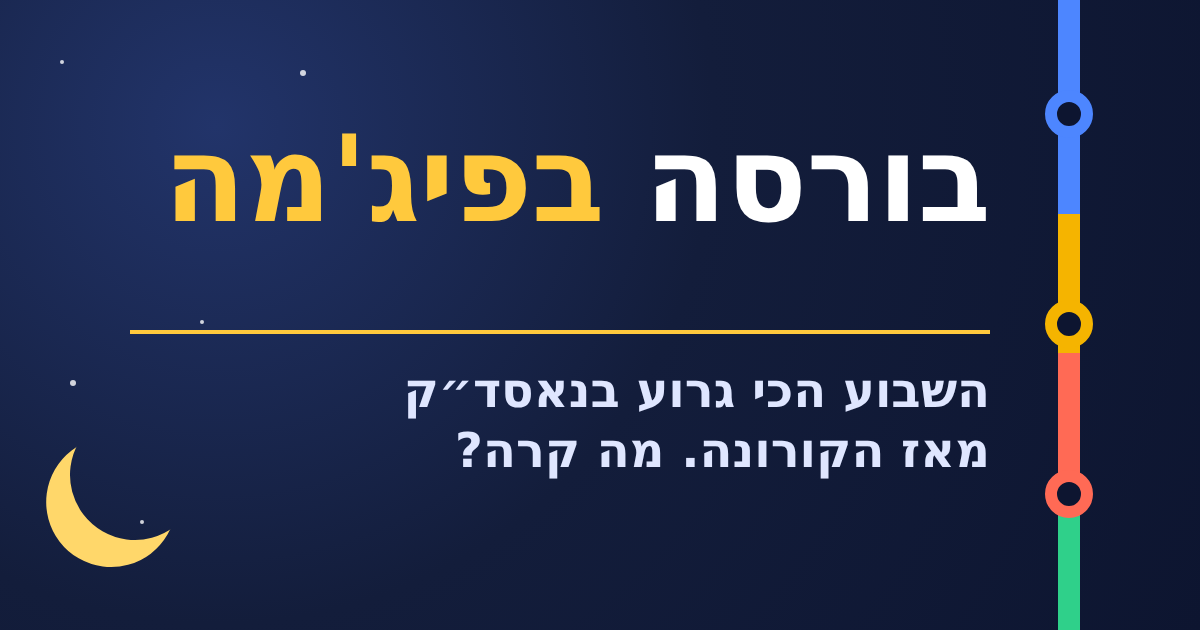
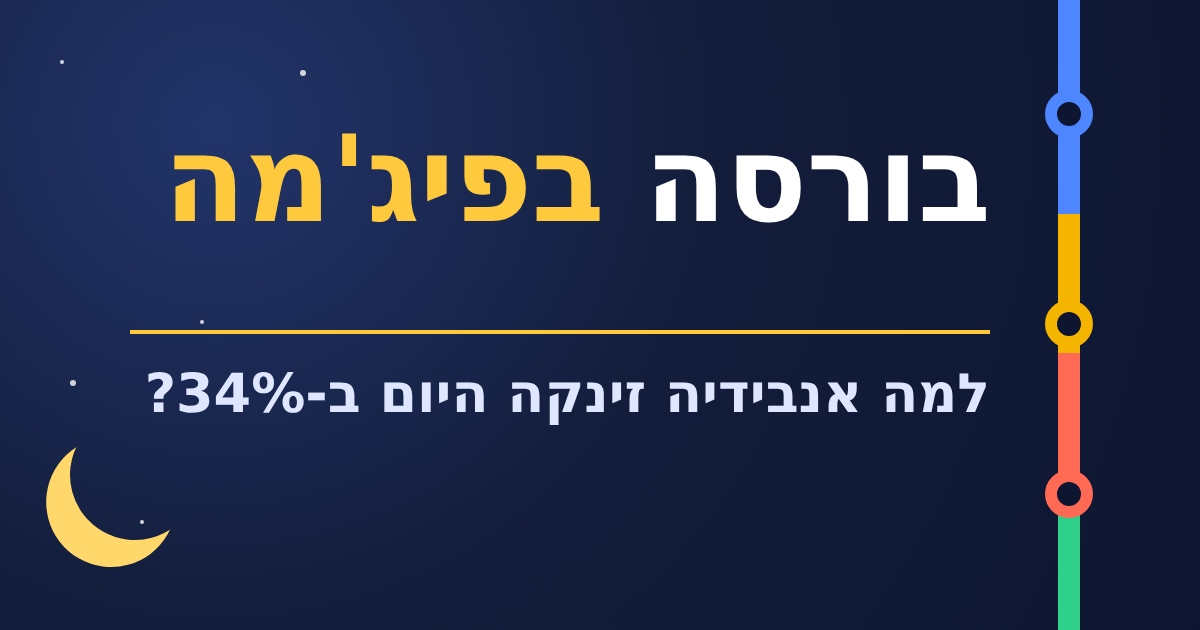
סקירת שווקים 23.11.2026
Claude-Session: https://claude.ai/code/session_019YX1Z7zAkS4yvErqai3DSr

Changed region(s): [[0.1233, 0.573, 0.8325, 0.754]]

diff --git a/index.html b/index.html
@@ -6,14 +6,14 @@
 <meta name="apple-mobile-web-app-title" content="בורסה בפיג'מה">
 <meta name="apple-mobile-web-app-capable" content="yes">
 <title>בורסה בפיג'מה</title>
-<meta name="description" content="חשש מבועת בינה מלאכותית הפיל את מניות השבבים בעולם, וחשש מהעלאת ריבית בארה״ב חיזק את הדולר.">
+<meta name="description" content="אחרי השבוע הגרוע מאז 2020, הבורסות בעולם מזנקות. בנק ישראל השאיר את הריבית, והשקל התחזק.">
 <meta property="og:type" content="article">
 <meta property="og:site_name" content="בורסה בפיג'מה">
 <meta property="og:locale" content="he_IL">
 <meta property="og:url" content="https://skirat-shvakim.github.io/">
-<meta property="og:title" content="השבוע הכי גרוע בנאסד״ק מאז הקורונה. מה קרה?">
-<meta property="og:description" content="חשש מבועת בינה מלאכותית הפיל את מניות השבבים בעולם, וחשש מהעלאת ריבית בארה״ב חיזק את הדולר.">
-<meta property="og:image" content="https://skirat-shvakim.github.io/og.png?v=W2111">
+<meta property="og:title" content="למה אנבידיה זינקה היום ב-34%?">
+<meta property="og:description" content="אחרי השבוע הגרוע מאז 2020, הבורסות בעולם מזנקות. בנק ישראל השאיר את הריבית, והשקל התחזק.">
+<meta property="og:image" content="https://skirat-shvakim.github.io/og.png?v=2311">
 <meta property="og:image:width" content="1200">
 <meta property="og:image:height" content="630">
 <meta name="twitter:card" content="summary_large_image">
@@ -222,7 +222,7 @@ button:focus-visible,input:focus-visible,summary:focus-visible,a:focus-visible{o
       <svg viewBox="0 0 40 40" aria-hidden="true"><rect width="40" height="40" rx="11" fill="#131d3b"/><circle cx="26.5" cy="11.5" r="6" fill="#ffd76a"/><circle cx="29.3" cy="9.6" r="5.3" fill="#131d3b"/><path d="M6 31 L13.5 24 L20 26 L32.5 17.5" fill="none" stroke="#4d86ff" stroke-width="3.4" stroke-linecap="round" stroke-linejoin="round"/><circle cx="13.5" cy="24" r="3" fill="#131d3b" stroke="#f5b400" stroke-width="2.3"/><circle cx="32.5" cy="17.5" r="3" fill="#131d3b" stroke="#ff6a55" stroke-width="2.3"/><circle cx="9" cy="9" r=".8" fill="#fff"/><circle cx="16" cy="6.5" r=".6" fill="#fff"/></svg>
       <span class="bt"><span class="b1">בורסה</span> <span class="b2">בפיג'מה</span></span>
     </a>
-    <span class="date">סיכום שבוע 16–20.11</span>
+    <span class="date">יום שני · 23.11</span>
     <div class="tsz" role="group" aria-label="גודל טקסט"><button type="button" id="tszDown" aria-label="הקטנת טקסט">א−</button><button type="button" id="tszUp" aria-label="הגדלת טקסט">א+</button></div>
     <button type="button" class="menu" id="menuBtn" aria-controls="nav" aria-expanded="false" aria-label="תפריט"><span></span><span></span><span></span></button>
   </header>
@@ -238,13 +238,13 @@ button:focus-visible,input:focus-visible,summary:focus-visible,a:focus-visible{o
   <section class="card hero" id="hero" data-nav="בשורה התחתונה">
     <div class="newbie" id="newbie" hidden><span>חדש בשוק ההון? <a href="start.html">התחל כאן: 5 מושגים ב-2 דקות</a></span><button type="button" id="newbieX" aria-label="סגירה">✕</button></div>
     <div class="meta"><span class="rt">⏱ 30 שניות לעיקר · 3 דקות להכול</span></div>
-    <span class="mood">סיכום השבוע · שבוע אדום</span>
-    <h1>שבוע אדום: נאסד״ק צנח 10%, הדולר זינק ל-3.33</h1>
-    <p class="sub">חשש מבועת בינה מלאכותית הפיל את מניות השבבים בעולם, וחשש מהעלאת ריבית בארה״ב חיזק את הדולר.</p>
+    <span class="mood">יום ירוק · התאוששות</span>
+    <h1>המנכ״ל חזר, אנבידיה זינקה, והריבית בישראל נשארה</h1>
+    <p class="sub">אחרי השבוע הגרוע מאז 2020, הבורסות בעולם מזנקות. בנק ישראל השאיר את הריבית, והשקל התחזק.</p>
     <ul class="bottom">
-      <li>נאסד״ק ירד 10% ו-<button class="term" data-t="sp500">S&amp;P 500</button> ירד 8.6%. לנאסד״ק זה השבוע הגרוע מאז מרץ 2020.</li>
-      <li><button class="term" data-t="ta125">ת״א 125</button> ירד 4.3%. הדולר עלה 3.6%, לשיא של 19 חודשים.</li>
-      <li>אנבידיה איבדה כ-23% למרות דוח מצוין. אנתרופיק עדיין מעל מחיר ה<button class="term" data-t="ipo">הנפקה</button>.</li>
+      <li>אנבידיה החזירה את המנכ״ל ג׳נסן הואנג. המניה זינקה בכ-34%.</li>
+      <li>נאסד״ק עלה כ-7% ו-<button class="term" data-t="sp500">S&amp;P 500</button> כ-5%, אחרי שבוע של נפילות.</li>
+      <li><button class="term" data-t="boirate">ריבית בנק ישראל</button> נשארה 3.25%. <button class="term" data-t="ta125">ת״א 125</button> עלה 0.4%.</li>
     </ul>
     <button type="button" class="listen" id="listen" aria-pressed="false" hidden><svg viewBox="0 0 24 24" aria-hidden="true"><path d="M4 9v6h4l5 4V5L8 9H4z" fill="currentColor"/><path d="M16 8.5a5 5 0 0 1 0 7M18.5 6a8.5 8.5 0 0 1 0 12" fill="none" stroke="currentColor" stroke-width="2" stroke-linecap="round"/></svg><span>הקשב לעיקר</span></button>
     <button type="button" class="share" data-share>שתפו את הסקירה בוואטסאפ</button>
@@ -253,33 +253,33 @@ button:focus-visible,input:focus-visible,summary:focus-visible,a:focus-visible{o
   <section class="card me" id="me" data-nav="מה זה אומר עליי">
     <h2>מה זה אומר עליי</h2>
     <ul>
-      <li><b>חופשה בחו״ל:</b> לפני שבוע הדולר עלה 3.21 שקלים, עכשיו 3.33. 1,000 דולר עולים כ-120 שקל יותר.</li>
-      <li><b>פנסיה והשתלמות:</b> במסלול מנייתי החיסכון כנראה ירד השבוע. הדולר החזק ריכך מעט את הירידה בחלק שבחו״ל.</li>
-      <li><b>משכנתא:</b> ביום שני בנק ישראל מחליט על הריבית. רוב הכלכלנים מצפים שתישאר 3.25%.</li>
+      <li><b>חופשה בחו״ל:</b> הדולר ירד לכ-3.30 שקלים. בפועל: 1,000 דולר עולים כ-50 שקל פחות משישי בערב.</li>
+      <li><b>משכנתא:</b> ה<button class="term" data-t="prime">פריים</button> נשאר 4.75%. ההחזר במסלול פריים לא משתנה. ההחלטה הבאה: 4 בינואר.</li>
+      <li><b>פנסיה והשתלמות:</b> המניות בחו״ל מתאוששות היום. אבל יום אחד לא מוחק שבוע של ירידות.</li>
     </ul>
   </section>
 
   <section class="card" id="numbers" data-nav="המספרים">
     <h2>המספרים</h2>
     <div class="tiles">
-      <div class="t"><span><button class="term" data-t="ta125">ת״א 125</button> · נעילה</span><b>3,753</b><span class="chg d">▼ 4.3%</span><span class="ctx hot">הבנייה צנחה כמעט 10%</span></div>
-      <div class="t"><span><button class="term" data-t="sp500">S&amp;P 500</button> · נעילה</span><b>6,910</b><span class="chg d">▼ 8.6%</span><span class="ctx hot">נכנס ל<button class="term" data-t="corr">תיקון</button></span></div>
-      <div class="t"><span>נאסד״ק · נעילה</span><b>22,618</b><span class="chg d">▼ 10.0%</span><span class="ctx hot">הגרוע מאז מרץ 2020</span></div>
-      <div class="t"><span>דולר / שקל · <button class="term" data-t="rep">יציג</button></span><b>3.330</b><span class="chg u">▲ 3.6%</span><span class="ctx hot">שיא של 19 חודשים</span></div>
-      <div class="t"><span>נפט ברנט</span><b>$92.6</b><span class="chg d">▼ 3.4%</span><span class="ctx">שבוע שלישי של ירידות</span></div>
-      <div class="t"><span>זהב</span><b>$3,525</b><span class="chg d">▼ כ-9%</span><span class="ctx hot">השבוע הגרוע מזה 8 חודשים</span></div>
+      <div class="t"><span><button class="term" data-t="ta125">ת״א 125</button></span><b>3,769</b><span class="chg u">▲ 0.4%</span><span class="ctx">התהפך לעלייה אחרי הצהריים</span><span class="asof">נעילה</span></div>
+      <div class="t"><span><button class="term" data-t="sp500">S&amp;P 500</button></span><b>≈7,264</b><span class="chg u">▲ 5.1%</span><span class="ctx hot">זינוק נדיר ביום אחד</span><span class="asof">נכון ל-18:00</span></div>
+      <div class="t"><span>נאסד״ק</span><b>≈24,198</b><span class="chg u">▲ 7.0%</span><span class="ctx hot">השבבים מובילים</span><span class="asof">נכון ל-18:00</span></div>
+      <div class="t"><span>דולר / שקל</span><b>≈3.30</b><span class="chg d">▼ 1.6%</span><span class="ctx">השקל מתאושש</span><span class="asof">נכון ל-17:55</span></div>
+      <div class="t"><span>נפט ברנט</span><b>$86.4</b><span class="chg d">▼ 4.0%</span><span class="ctx">שפל של 3 חודשים</span><span class="asof">נכון ל-17:55</span></div>
+      <div class="t"><span>זהב</span><b>$3,668</b><span class="chg u">▲ 4.3%</span><span class="ctx">חוזר אחרי שבוע קשה</span><span class="asof">נכון ל-17:55</span></div>
     </div>
     <details class="adv">
       <summary>עוד נתונים, למתקדמים</summary>
       <div class="tiles">
-        <div class="t"><span>יורו / שקל</span><b>&gt;3.65</b><span class="chg u">▲ כ-3.1%</span><span class="ctx">השקל נחלש גם מול היורו</span></div>
-        <div class="t"><span><button class="term" data-t="yield">תשואת אג״ח</button> ארה״ב, 10 שנים</span><b>4.92%</b><span class="chg d">▼ 0.23</span><span class="ctx">כסף ברח לאג״ח בטוחות</span></div>
-        <div class="t"><span>תשואת אג״ח ישראל, 10 שנים</span><b>≈4.22%</b><span class="chg u">▲ 0.04</span><span class="ctx">כמעט ללא שינוי (לא אומת)</span></div>
-        <div class="t"><span><button class="term" data-t="vix">מדד הפחד VIX</button></span><b>35.9</b><span class="chg u">▲ 86%</span><span class="ctx hot">הגבוה מאז מרץ</span></div>
-        <div class="t"><span>ביטקוין</span><b>≈$58,900</b><span class="chg d">▼ כ-13%</span><span class="ctx">מתחת ל-60 אלף (לא אומת)</span></div>
+        <div class="t"><span>יורו / שקל</span><b>≈3.60</b><span class="chg d">▼ 2.2%</span><span class="ctx">השקל התחזק גם מול היורו</span><span class="asof">נכון ל-17:55</span></div>
+        <div class="t"><span><button class="term" data-t="yield">תשואת אג״ח</button> ארה״ב, 10 שנים</span><b>4.95%</b><span class="chg u">▲ 0.04</span><span class="ctx">צפי להעלאת ריבית</span><span class="asof">נכון ל-18:00</span></div>
+        <div class="t"><span>תשואת אג״ח ישראל, 10 שנים</span><b>≈4.22%</b><span class="chg u">▲ 0.0</span><span class="ctx">כמעט ללא שינוי (לא אומת)</span><span class="asof">פתיחת השבוע</span></div>
+        <div class="t"><span><button class="term" data-t="vix">מדד הפחד VIX</button></span><b>27.3</b><span class="chg d">▼ 24%</span><span class="ctx">הפחד יורד, עדיין גבוה</span><span class="asof">נכון ל-18:00</span></div>
+        <div class="t"><span>ביטקוין</span><b>≈$62,800</b><span class="chg u">▲ 3.3%</span><span class="ctx">שוב מעל 60 אלף</span><span class="asof">נכון ל-18:00</span></div>
       </div>
     </details>
-    <p class="note">שינוי שבועי: נעילת שישי מול נעילת שישי הקודם.</p>
+    <p class="note">ת״א 125: נעילה. וול סטריט עדיין פתוחה: נתונים מ-18:00 שעון ישראל. הנפט והזהב: חוזים עתידיים. השינוי: מול נעילת שישי.</p>
   </section>
 
   <section class="card pick" id="stocks" data-nav="המניות שלי">
@@ -295,16 +295,16 @@ button:focus-visible,input:focus-visible,summary:focus-visible,a:focus-visible{o
   </section>
 
   <section class="card" id="story" data-nav="הסיפור של היום" data-fold>
-    <h2>הסיפור של השבוע</h2>
-    <p class="teaser">חשש מבועת בינה מלאכותית הפיל את השווקים בעולם, ותל אביב והשקל נגררו אחריהם.</p>
+    <h2>הסיפור של היום</h2>
+    <p class="teaser">המנכ״ל של אנבידיה חזר לתפקיד, והשווקים שנפלו בשבוע שעבר זינקו היום.</p>
     <div class="fold-body">
-      <h3 class="subh">5 הסיפורים של השבוע</h3>
+      <p>ג׳נסן הואנג, מייסד אנבידיה, התפטר לפני כשבועיים. ברקע היו דיווחים על קשר לבכירה שנחשדה כסוכנת סינית. היום ה<button class="term" data-t="board">דירקטוריון</button> החזיר אותו לתפקיד. הדירקטוריון אמר שקיבל מידע מבכירים בממשל האמריקאי. החקירה הפנימית תימשך. המניה זינקה בכ-34%, אבל עדיין כ-30% מתחת לשיא של אוקטובר.</p>
+      <p>הזינוק סחף את כל מניות השבבים. AMD עלתה כ-8%, וטאואר בתל אביב עלתה 8.6%. מדד הפחד ירד בכרבע. אבל הבעיות לא נעלמו. ענקיות הטכנולוגיה עדיין מוציאות הון על בינה מלאכותית. והפד צפוי להעלות ריבית בדצמבר.</p>
+      <h3 class="subh">הזווית הגיאופוליטית</h3>
       <div class="geo-in">
-        <div class="item"><span class="tag">שבבים</span><h3>אנבידיה: הכנסות כפולות, מניה בנפילה</h3><p>משקיעים חוששים שההשקעה העצומה ב<button class="term" data-t="ai">בינה מלאכותית</button> לא תחזיר את עצמה. אנבידיה ירדה כ-23% למרות הכנסות כפולות. בשישי צנחה 14% אחרי דיווח שהרגולטור בארה״ב בודק את החשבונות שלה. בטאיוואן: השבוע הגרוע מאז 1991.</p></div>
-        <div class="item"><span class="tag">חמישי</span><h3>אנתרופיק: ההנפקה הגדולה בהיסטוריה</h3><p>המניה הונפקה ב-83 דולר, והחברה גייסה כ-81 מיליארד דולר. ביום הראשון נסגרה ב-97 דולר, ובשישי ירדה לכ-89. עדיין מעל מחיר ה<button class="term" data-t="ipo">הנפקה</button>, אבל לא הצליחה לעצור את הירידות.</p></div>
-        <div class="item"><span class="tag">ריבית</span><h3>הפד בדרך להעלאה, הדולר מתחזק</h3><p>בפרוטוקול של הפד כמעט כל החברים צפו <button class="term" data-t="hike">העלאת ריבית</button> בדצמבר. השוק מעריך סיכוי של כ-90%. הדולר התחזק בעולם, ומוסדיים בארץ קנו דולרים ל<button class="term" data-t="hedge">גידור</button>.</p></div>
-        <div class="item"><span class="tag">תל אביב</span><h3>ת״א 125 ירד 4.3%</h3><p>הבנייה צנחה 9.7% והבנקים 6%. טאואר, יצרנית השבבים, איבדה 17%. דיסקונט דיווחה על ירידה של 20% ברווח ועל פיטורי כ-600 עובדים. הצריכה ירדה רק 1%.</p></div>
-        <div class="item"><span class="tag">נפט</span><h3>הורמוז: תקיפות נמשכות, הנפט יורד</h3><p>איראן ממשיכה לתקוף מכליות, אבל הנפט מהמפרץ חזר לזרום כמעט כרגיל. ברנט ירד 3.4%, שבוע שלישי ברצף. טראמפ אמר שארה״ב שולטת בהורמוז ושהוא רוצה ״עסקה אמיתית״ עם איראן.</p></div>
+        <div class="item"><span class="tag">ישראל</span><h3>בנק ישראל: הריבית בלי שינוי</h3><p>הריבית נשארה 3.25%, אף שהאינפלציה רק 1.1%. הסיבה: השקל נחלש כ-7.6% מול הדולר מאז ההחלטה הקודמת. הבנק הזכיר גם אי-ודאות גבוהה, בארץ ובעולם.</p></div>
+        <div class="item"><span class="tag">איראן</span><h3>מתיחות במפרץ, אבל הנפט יורד</h3><p>איראן תקפה את בחריין בסוף השבוע. טראמפ נותן עוד זמן למגעים, ומאיים בפעולה אחרי השנה החדשה. ובכל זאת, הנפט ממשיך לזרום. ברנט ירד כ-4%.</p></div>
+        <div class="item"><span class="tag">ארה״ב–סין</span><h3>וושינגטון מאחורי אנבידיה</h3><p>החשד נגע לקשר סיני, ולכן הממשל היה מעורב. אנבידיה הקימה ועדה לביטחון לאומי ולפיקוח על יצוא. טראמפ בירך על ההחלטה ברשת החברתית שלו.</p></div>
       </div>
     </div>
   </section>
@@ -312,19 +312,19 @@ button:focus-visible,input:focus-visible,summary:focus-visible,a:focus-visible{o
 
   <section class="card think" id="think" data-nav="נקודה למחשבה" data-fold>
     <h2>נקודה למחשבה</h2>
-    <div class="item teaser"><h3>למה השקל נחלש כשהעולם יורד?</h3><p>כשמניות בחו״ל יורדות, מוסדיים כאן קונים דולרים כדי לאזן את הגידור. השבוע זה פגש ריבית אמריקאית שצפויה לעלות.</p></div>
+    <div class="item teaser"><h3>יום ירוק אחרי שבוע אדום</h3><p>אחרי ירידה חדה מגיע לפעמים זינוק חד. לזה קוראים <button class="term" data-t="bounce">ריבאונד</button>. השאלה היא אם הוא יחזיק כמה ימים.</p></div>
     <div class="fold-body">
-      <div class="item"><h3>שבוע קצר, נתון אחד חשוב</h3><p>ביום רביעי יתפרסם <button class="term" data-t="pce">מדד PCE</button>, נתון האינפלציה האחרון לפני הפד. הוא עשוי להשפיע על גודל העלאת הריבית בדצמבר.</p></div>
-      <div class="item"><h3>מה אם כולם טועים?</h3><p>השוק מפחד מבועה. אבל ההכנסות של אנבידיה הוכפלו, והתחזית לרבעון הבא גבוהה עוד יותר. אם הרווחים יימשכו, הפאניקה עלולה להיראות בדיעבד מוגזמת.</p></div>
+      <div class="item"><h3>שבוע קצר, נתון אחד חשוב</h3><p>ביום רביעי יתפרסם <button class="term" data-t="pce">מדד PCE</button>, נתון אינפלציה חשוב בארה״ב. הוא ישפיע על החלטת הריבית בדצמבר.</p></div>
+      <div class="item"><h3>מה אם כולם טועים?</h3><p>אולי הזינוק הוא רק הקלה זמנית. הבעיות נשארו: השקעות ענק, ריבית שצפויה לעלות ומתח גיאופוליטי. ייתכן שהירידות יחזרו.</p></div>
     </div>
   </section>
 
   <div class="learn">
     <section class="card word" id="word" data-nav="מונח היום">
-      <h2>מונח השבוע</h2>
-      <p class="w">תיקון (Correction)</p>
-      <p>ירידה של 10% או יותר מהשיא האחרון של מדד או מניה. ירידה של 20% ומעלה כבר נקראת ״שוק דובי״.</p>
-      <p class="ex">דוגמה מהשבוע: S&amp;P 500 ירד כ-11.6% מהשיא שלו ב-6 באוקטובר, ונכנס רשמית לתיקון.</p>
+      <h2>מונח היום</h2>
+      <p class="w">ריבית הפריים (Prime)</p>
+      <p>הריבית שהבנקים בישראל גובים על הלוואות. היא תמיד גבוהה ב-1.5 נקודות אחוז מריבית בנק ישראל.</p>
+      <p class="ex">דוגמה מהיום: ריבית בנק ישראל נשארה 3.25%, ולכן הפריים נשאר 4.75%. משכנתא במסלול פריים לא משתנה.</p>
     </section>
   </div>
 
@@ -335,43 +335,39 @@ button:focus-visible,input:focus-visible,summary:focus-visible,a:focus-visible{o
   </section>
 
   <section class="card" id="tomorrow" data-nav="מה לעקוב מחר" data-fold>
-    <h2>מה צפוי בשבוע הבא</h2>
+    <h2>מה לעקוב מחר</h2>
     <ul class="cal teaser">
-      <li><time>שני</time><span>16:00: בנק ישראל מחליט על הריבית. הצפי: נשארת 3.25%.</span></li>
+      <li><time>שלישי</time><span>דוחות דל, וורקדיי ואוטודסק: מבחן לביקוש לבינה מלאכותית.</span></li>
     </ul>
     <div class="fold-body"><ul class="cal">
-      <li><time>שני</time><span>תל אביב צפויה לפתוח בירידות, אחרי נפילת וול סטריט בשישי.</span></li>
-      <li><time>שלישי</time><span>דוחות דל, וורקדיי ואוטודסק: מבחן לביקוש לבינה מלאכותית.</span></li>
+      <li><time>שלישי</time><span>האם הזינוק בוול סטריט יחזיק יום שני?</span></li>
       <li><time>רביעי</time><span>מדד PCE: נתון האינפלציה האחרון בארה״ב לפני הפד.</span></li>
       <li><time>רביעי</time><span>דוחות הפניקס, מנורה, עזריאלי ושטראוס בתל אביב.</span></li>
       <li><time>חמישי</time><span>חג ההודיה: וול סטריט סגורה. בשישי מסחר מקוצר.</span></li>
-      <li><time>29.11</time><span>אופ״ק+ מחליטה על תפוקת הנפט ל-2027.</span></li>
-      <li><time>6.12</time><span>המועד האחרון של אייזנקוט להרכבת ממשלה.</span></li>
       <li><time>9.12</time><span>החלטת הפד: השוק מעריך כ-90% סיכוי להעלאה.</span></li>
+      <li><time>4.1</time><span>ההחלטה הבאה של בנק ישראל על הריבית.</span></li>
     </ul></div>
   </section>
 
   <section class="card src" id="sources" data-nav="מקורות" data-fold>
     <h2>מקורות</h2>
-    <p class="teaser">הסקירה מבוססת על 16 כתבות ומקורות נתונים בארץ ובעולם.</p>
+    <p class="teaser">הסקירה מבוססת על 14 כתבות ממקורות בארץ ובעולם.</p>
     <div class="fold-body">
     <p>
-      <a href="https://www.bizportal.co.il/capitalmarket/news/article/20049385">ביזפורטל – שבוע אדום בבורסה</a> ·
-      <a href="https://www.bizportal.co.il/forex/news/article/20049389">ביזפורטל – הדולר ב-3.33</a> ·
-      <a href="https://www.bizportal.co.il/capitalmarket/news/article/20049463">ביזפורטל – לקראת החלטת הריבית</a> ·
-      <a href="https://www.bizportal.co.il/capitalmarket/news/article/20049464">ביזפורטל – מה צפוי בשבוע הבא</a> ·
-      <a href="https://www.globes.co.il/news/article.aspx?did=1001563907">גלובס – דוחות הבנקים</a> ·
-      <a href="https://www.calcalist.co.il/local_news/article/hkhmdwp0ze">כלכליסט – מדד המחירים</a> ·
-      <a href="https://theglassdesk.substack.com/p/weekly-market-review-nov-20-2026">Glass Desk – סיכום שבועי בוול סטריט</a> ·
-      <a href="https://www.fool.com/coverage/stock-market-today/2026/11/20/stock-market-today-nov-20-nvidia-s-usd2-5-trillion-rout-deepens-as-sec-accounting-probe-adds-to-wall-street-s-ai-sell-off/">Motley Fool – אנבידיה וחקירת ה-SEC</a> ·
-      <a href="https://www.lanacion.com.ar/usa/how-major-us-stock-indexes-fared-friday-11132026-nid13112026/">AP – נעילת המדדים ב-13.11</a> ·
-      <a href="https://fourweekmba.com/ai-anthropic-closes-day-one-at-97-17-up-17-from-83-ipo/">FourWeekMBA – אנתרופיק ביום הראשון</a> ·
-      <a href="https://www.adn.com/business-economy/2026/11/18/fed-minutes-higher-interest-rates-needed-in-december-as-inflation-worries-mount/">AP – פרוטוקול הפד</a> ·
-      <a href="https://www.rte.ie/news/business/2026/1120/1599964-world-oil-prices/">RTÉ (רויטרס) – מחיר הנפט</a> ·
-      <a href="https://www.thenationalnews.com/business/money/2026/11/20/why-is-gold-price-going-down/">The National – למה הזהב יורד</a> ·
-      <a href="https://www.tradingandinvestmentnews.co.uk/ai-selloff-taiwan-short-curbs/">Trading &amp; Investment News – טאיוואן</a> ·
-      <a href="https://www.latintimes.com/trump-asia-tour-trade-deals-global-disputes-601648">Latin Times – מסיבת העיתונאים של טראמפ</a> ·
-      <a href="https://stockanalysis.com/stocks/nvda/history/">StockAnalysis – מחירי המניות</a>
+      <a href="https://il.investing.com/news/stock-market-news/article-1039993">Investing – נעילת תל אביב</a> ·
+      <a href="https://www.maariv.co.il/economy/israel/article-1391511">מעריב – הבורסה עברה לעליות</a> ·
+      <a href="https://www.maariv.co.il/economy/israel/article-1391497">מעריב – הריבית ללא שינוי</a> ·
+      <a href="https://www.calcalist.co.il/local_news/article/rj112p311kmg">כלכליסט – החלטת הריבית</a> ·
+      <a href="https://www.israelhayom.co.il/business/article/21914831">ישראל היום – למה לא הורידו</a> ·
+      <a href="https://kore.co.il/viewArticle/226034">כל רגע – נימוקי בנק ישראל</a> ·
+      <a href="https://bizportal.co.il/wallstreet/news/article/20049720">ביזפורטל – אנבידיה וחזרת הואנג</a> ·
+      <a href="https://globes.co.il/news/article.aspx?did=1001564509">גלובס – המסחר בתל אביב</a> ·
+      <a href="https://calcalist.co.il/market/article/ke6nfc7sk">כלכליסט – לקראת הפתיחה</a> ·
+      <a href="https://finance.yahoo.com/markets/live/stock-market-today-monday-november-23-dow-sp-500-nasdaq-091118583.html">Yahoo Finance – וול סטריט היום</a> ·
+      <a href="https://247wallst.com/investing/2026/11/23/stock-market-today-dow-sp-500-and-nasdaq-surge-as-nvidia-leads-a-major-ai-rebound/">24/7 Wall St – הזינוק בשבבים</a> ·
+      <a href="https://finance.yahoo.com/markets/stocks/articles/stock-market-news-nov-23-073600160.html">Zacks – למה וול סטריט נפלה בשישי</a> ·
+      <a href="https://www.zerohedge.com/markets/futures-soar-trump-throws-nvidia-lifeline-after-worst-week-liberation-day">ZeroHedge – טראמפ ואנבידיה</a> ·
+      <a href="https://tradingeconomics.com/commodity/brent-crude-oil">Trading Economics – נפט ברנט ואיראן</a>
     </p>
     </div>
   </section>
@@ -379,7 +375,7 @@ button:focus-visible,input:focus-visible,summary:focus-visible,a:focus-visible{o
 </main>
 
   <div class="sharefoot"><p>אהבת? שלח לחבר שמתחיל להתעניין בשוק</p><button type="button" class="share" data-share>שיתוף</button></div>
-  <p class="foot"><a href="accessibility.html">הצהרת נגישות</a> · <a href="glossary.html">מילון</a> · <a href="start.html">התחל כאן</a><br>הסקירה היא סיכום מידע וניתוח בלבד ואינה מהווה ייעוץ השקעות.<br>עודכן: 21.11.2026 23:35</p>
+  <p class="foot"><a href="accessibility.html">הצהרת נגישות</a> · <a href="glossary.html">מילון</a> · <a href="start.html">התחל כאן</a><br>הסקירה היא סיכום מידע וניתוח בלבד ואינה מהווה ייעוץ השקעות.<br>עודכן: 23.11.2026 19:15</p>
 </div>
 
 <div class="sheet" id="sheet" role="dialog" aria-modal="false" aria-labelledby="sh-t">
@@ -391,49 +387,48 @@ button:focus-visible,input:focus-visible,summary:focus-visible,a:focus-visible{o
 <script>
 {
   const STOCKS=[
-    {tk:"NVDA",name:"אנבידיה",price:"$125.53",chg:-22.9,week:[156.14,155.46,150.96,145.98,125.53],note:"דוח מצוין לא עזר. בשישי −14%: הרגולטור בארה״ב בודק את החשבונות."},
-    {tk:"AAPL",name:"אפל",price:"$342.56",chg:-3.8,week:[352.78,351.91,352.45,349.21,342.56],note:"ירדה הרבה פחות מרוב ענקיות הטכנולוגיה."},
-    {tk:"MSFT",name:"מיקרוסופט",price:"$484.52",chg:-7.5,week:[517.99,506.24,508.29,498.30,484.52],note:"נפגעה מהחשש מהשקעות הענק בבינה מלאכותית."},
-    {tk:"TSLA",name:"טסלה",price:"$345.82",chg:-11.4,week:[379.74,380.11,383.72,374.41,345.82],note:"בשישי לבד ירדה 7.6%."},
-    {tk:"AMZN",name:"אמזון",price:"$246.82",chg:-7.4,week:[257.75,257.89,267.74,257.37,246.82],note:"חשש מההוצאות העצומות על מרכזי נתונים."},
-    {tk:"GOOGL",name:"גוגל (אלפבית)",price:"$265.29",chg:-10.3,week:[283.72,280.20,282.44,272.66,265.29],note:"ירידה דו-ספרתית, עם כל מניות הבינה המלאכותית."},
-    {tk:"META",name:"מטא",price:"$560.84",chg:-12.6,week:[626.41,618.87,616.38,596.22,560.84],note:"ירדה כל יום השבוע; בשישי כמעט 6%."},
-    {tk:"AVGO",name:"ברודקום",price:"$304.41",chg:-12.3,week:[333.40,341.60,354.05,346.65,304.41],note:"בשישי צנחה 12% עם מניות השבבים."},
-    {tk:"AMD",name:"AMD",price:"$424.39",chg:-20.5,week:[504.28,503.41,530.14,489.19,424.39],note:"שבוע קשה לשבבים: בשישי לבד ירדה 13%."},
-    {tk:"NFLX",name:"נטפליקס",price:"$56.73",chg:-8.7,week:[60.75,59.68,59.82,58.46,56.73],note:"ממשיכה לדשדש מאז הדוח המאכזב באוקטובר."},
-    {tk:"PLTR",name:"פלנטיר",price:"$144.15",chg:-14.2,week:[160.6,156.7,153.68,144.15],note:"המשך הנפילה במניות הבינה המלאכותית (נתונים חלקיים)."},
-    {tk:"JPM",name:"ג׳יי.פי מורגן",price:"$310.53",chg:-10.3,week:[338.21,329.96,324.11,320.22,310.53],note:"הבנקים ירדו עם כל השוק."},
-    {tk:"V",name:"ויזה",price:"$401.87",chg:-5.6,week:[426.46,416.77,415.22,402.25,401.87],note:"ירדה פחות מהשוק, בלי חדשות מיוחדות."},
-    {tk:"KO",name:"קוקה-קולה",price:"$96.99",chg:-2.3,week:[99.48,98.79,98.09,96.09,96.99],note:"מניה ״בטוחה״: מהמניות שירדו הכי מעט."},
-    {tk:"TEVA",name:"טבע",price:"$39.23",chg:-5.8,week:[42.23,38.54,39.23],note:"מנהל המחקר הודיע שעוזב. השינוי השבועי: בתל אביב, בשקלים."},
-    {tk:"CHKP",name:"צ׳ק פוינט",price:"$154.88",chg:5.2,week:[147.74,148.39,154.03,155.50,154.88],note:"מהבודדות שעלו: מניות הסייבר התחזקו השבוע."},
-    {tk:"NICE",name:"נייס",price:"$85.22",chg:-3.0,week:[89.85,86.76,85.22],note:"השינוי השבועי: בתל אביב, בשקלים. נתונים חלקיים."},
-    {tk:"WIX",name:"וויקס",price:"$59.03",chg:-12.1,week:[66.45,64.02,63.54,59.25,59.03],note:"לחץ על מניות התוכנה בגלל הבינה המלאכותית."},
-    {tk:"MBLY",name:"מובילאיי",price:"$4.57",chg:-17.8,week:[5.26,5.19,5.205,5.09,4.57],note:"בשישי ירדה 10%; סיטי הורידה את מחיר היעד."},
-    {tk:"ESLT",name:"אלביט מערכות",price:"$655.89",chg:-3.8,week:[681.98,655.89],note:"שינוי יומי בשישי; נתון שבועי לא נמצא. צבר הזמנות שיא בדוח."}
+    {tk:"NVDA",name:"אנבידיה",price:"$168.73",chg:34.4,week:[155.46,150.96,145.98,125.53,168.73],note:"המייסד ג׳נסן הואנג חזר לנהל את החברה. מחיר היום, נכון ל-18:00."},
+    {tk:"AAPL",name:"אפל",price:"$342.56",chg:-1.9,week:[352.78,351.91,352.45,349.21,342.56],note:"היום עלתה כ-1% לפני הפתיחה. בלי חדשות מהותיות."},
+    {tk:"MSFT",name:"מיקרוסופט",price:"$484.52",chg:-2.8,week:[517.99,506.24,508.29,498.30,484.52],note:"היום עלתה כ-3% לפני הפתיחה, עם כל הטכנולוגיה."},
+    {tk:"TSLA",name:"טסלה",price:"$345.82",chg:-7.6,week:[379.74,380.11,383.72,374.41,345.82],note:"היום עלתה כ-4% לפני הפתיחה."},
+    {tk:"AMZN",name:"אמזון",price:"$246.82",chg:-4.1,week:[257.75,257.89,267.74,257.37,246.82],note:"היום עלתה כ-3% לפני הפתיחה."},
+    {tk:"GOOGL",name:"גוגל (אלפבית)",price:"$265.29",chg:-2.7,week:[283.72,280.20,282.44,272.66,265.29],note:"היום עלתה כ-5% לפני הפתיחה."},
+    {tk:"META",name:"מטא",price:"$560.84",chg:-5.9,week:[626.41,618.87,616.38,596.22,560.84],note:"היום עלתה כ-3% לפני הפתיחה."},
+    {tk:"AVGO",name:"ברודקום",price:"$304.41",chg:-12.2,week:[333.40,341.60,354.05,346.65,304.41],note:"היום עלתה כ-4% לפני הפתיחה, עם השבבים."},
+    {tk:"AMD",name:"AMD",price:"$424.39",chg:-13.2,week:[504.28,503.41,530.14,489.19,424.39],note:"היום עלתה כ-8% במסחר, אחרי הזינוק של אנבידיה."},
+    {tk:"NFLX",name:"נטפליקס",price:"$56.73",chg:-3.0,week:[60.75,59.68,59.82,58.46,56.73],note:"בלי חדשות מהותיות היום."},
+    {tk:"PLTR",name:"פלנטיר",price:"$144.15",chg:-6.2,week:[160.6,156.7,153.68,144.15],note:"בלי חדשות מהותיות היום (נתונים חלקיים)."},
+    {tk:"JPM",name:"ג׳יי.פי מורגן",price:"$310.53",chg:-3.0,week:[338.21,329.96,324.11,320.22,310.53],note:"בלי חדשות מהותיות היום."},
+    {tk:"V",name:"ויזה",price:"$401.87",chg:-0.1,week:[426.46,416.77,415.22,402.25,401.87],note:"בלי חדשות מהותיות היום."},
+    {tk:"KO",name:"קוקה-קולה",price:"$96.99",chg:0.9,week:[99.48,98.79,98.09,96.09,96.99],note:"בלי חדשות מהותיות היום."},
+    {tk:"TEVA",name:"טבע",price:"$39.23",chg:1.8,week:[42.23,38.54,39.23],note:"היום עלתה כ-2.5% בתחילת המסחר בניו יורק. נתונים חלקיים (לא אומת)."},
+    {tk:"CHKP",name:"צ׳ק פוינט",price:"$154.88",chg:-0.4,week:[147.74,148.39,154.03,155.50,154.88],note:"בלי חדשות מהותיות היום."},
+    {tk:"NICE",name:"נייס",price:"$85.22",chg:-1.8,week:[89.85,86.76,85.22],note:"היום עלתה כ-4% בתחילת המסחר בניו יורק. נתונים חלקיים."},
+    {tk:"WIX",name:"וויקס",price:"$59.03",chg:-0.4,week:[66.45,64.02,63.54,59.25,59.03],note:"בלי חדשות מהותיות היום."},
+    {tk:"MBLY",name:"מובילאיי",price:"$4.57",chg:-10.2,week:[5.26,5.19,5.205,5.09,4.57],note:"בלי חדשות מהותיות היום."},
+    {tk:"ESLT",name:"אלביט מערכות",price:"$655.89",chg:-3.8,week:[681.98,655.89],note:"היום עלתה כ-1.7% בניו יורק. הודיעה על פיתוח משותף בטכנולוגיה קוונטית."}
   ];
   const GLOSSARY={
     ta125:["ת״א 125","מדד של 125 החברות הגדולות בבורסה בתל אביב. הוא מראה איך הבורסה המקומית התנהגה באופן כללי."],
     sp500:["S&P 500","מדד של 500 החברות הגדולות בארה״ב. הרבה קרנות פנסיה והשתלמות בישראל משקיעות בו."],
-    rep:["שער יציג","שער הדולר הרשמי שבנק ישראל מפרסם פעם ביום, לפי המסחר בין הבנקים. בהמשך היום השער בפועל יכול להשתנות."],
+    boirate:["ריבית בנק ישראל","הריבית שבנק ישראל קובע. לפיה נקבעות הריביות על הלוואות, משכנתאות ופיקדונות בישראל."],
+    prime:["ריבית הפריים","הריבית שהבנקים בישראל גובים על הלוואות. היא תמיד גבוהה ב-1.5 נקודות אחוז מריבית בנק ישראל."],
+    board:["דירקטוריון","קבוצת אנשים שמפקחת על הנהלת החברה בשם בעלי המניות. היא ממנה את המנכ״ל ויכולה להחליף אותו."],
+    bounce:["ריבאונד","עלייה חדה במחיר אחרי ירידה חדה. לפעמים היא תחילת התאוששות, ולפעמים רק הפוגה קצרה."],
     vix:["מדד הפחד (VIX)","מדד שמראה כמה תנודות משקיעים מצפים לראות בוול סטריט בחודש הקרוב. מעל 30 נחשב פחד גבוה."],
-    ai:["בינה מלאכותית","תוכנות שלומדות מכמויות עצומות של מידע ויודעות לכתוב, לענות ולנתח. חברות משקיעות בה מאות מיליארדי דולרים בשבבים ובמרכזי נתונים."],
-    hike:["העלאת ריבית","כשהבנק המרכזי מייקר את הכסף כדי לבלום אינפלציה. הלוואות מתייקרות, ומניות נוטות לרדת."],
-    hedge:["גידור","פעולה שמקטינה סיכון. קרנות פנסיה שמחזיקות מניות בחו״ל קונות או מוכרות דולרים כדי שתנודות המטבע לא יפגעו בחיסכון."],
-    ipo:["הנפקה","הרגע שבו חברה פרטית מוכרת לראשונה מניות לציבור בבורסה. מאותו יום כל אחד יכול לקנות ולמכור את המניה שלה."],
     yield:["תשואת אג״ח","הריבית שמקבל מי שמלווה כסף לממשלה. כשהיא עולה, הלוואות ומשכנתאות נוטות להתייקר."],
-    corr:["תיקון","ירידה של 10% או יותר מהשיא האחרון של מדד או מניה. ירידה של 20% ומעלה נקראת ״שוק דובי״."],
-    pce:["מדד PCE","מדד האינפלציה שהפד בארה״ב הכי מסתכל עליו. הוא מודד כמה התייקרו המוצרים והשירותים שאמריקאים קונים."]
+    pce:["מדד PCE","מדד האינפלציה שהפד בארה״ב הכי מסתכל עליו. הוא מודד כמה התייקרו המוצרים והשירותים שאמריקאים קונים."],
+    hedge:["גידור","פעולה שמקטינה סיכון. קרנות פנסיה שמחזיקות מניות בחו״ל קונות או מוכרות דולרים כדי שתנודות המטבע לא יפגעו בחיסכון."]
   };
   const FAQ=[
-    ["נאסד״ק ירד 10% בשבוע. זו קריסה?","זו ירידה חדה, השבוע הגרוע של נאסד״ק מאז מרץ 2020. ירידות כאלה קרו גם בעבר, ובדרך כלל השוק התאושש, לפעמים רק אחרי זמן רב. אף אחד לא יודע מה יקרה הפעם."],
-    ["אחרי שבוע כזה, לשנות מסלול בפנסיה?","אנחנו לא נותנים המלצות. בעבר, מי שעבר למסלול סולידי אחרי נפילה חדה פספס לא פעם את ההתאוששות. שווה לבדוק שהמסלול מתאים לגיל ולטווח הזמן שלך."],
-    ["למה הזהב ירד, אם הוא ״מקלט בטוח״?","משקיעים שהפסידו במניות מכרו זהב כדי להשיג מזומן. גם הדולר החזק והציפייה לריבית גבוהה יותר בארה״ב לחצו עליו. הוא ירד השבוע כ-9%."],
-    ["מה יקרה ביום שני בבנק ישראל?","רוב הכלכלנים מצפים שהריבית תישאר 3.25%. האינפלציה נמוכה ותומכת בהורדה, אבל הדולר החזק והפד, שצפוי להעלות ריבית, מצדיקים זהירות. ההחלטה תתפרסם ב-16:00."],
-    ["מה ההבדל בין תיקון לשוק דובי?","<button class=\"term\" data-t=\"corr\">תיקון</button> הוא ירידה של 10% מהשיא. שוק דובי הוא ירידה של 20% ומעלה. כרגע S&amp;P 500 בתיקון: כ-11.6% מתחת לשיא של אוקטובר."]
+    ["אנבידיה זינקה 34% ביום. זה נורמלי?","ממש לא. זה זינוק נדיר לחברה בגודל כזה. אבל בחודש האחרון המניה ירדה כ-39%. חלק מהזינוק הוא רק החזרה של חלק מהירידה."],
+    ["למה בנק ישראל לא הוריד את הריבית?","האינפלציה נמוכה, 1.1%. אבל השקל נחלש מאוד, והורדה הייתה מחלישה אותו עוד. בארה״ב צפויה העלאת ריבית. הבנק העדיף לחכות להחלטה הבאה, ב-4 בינואר."],
+    ["אז הירידות של השבוע שעבר נגמרו?","אין דרך לדעת. אחרי נפילות חדות מגיעים לפעמים ימים ירוקים, ואחריהם ירידות חוזרות. S&amp;P 500 עדיין כ-7% מתחת לשיא של אוקטובר."],
+    ["למה הדולר ירד היום?","כשמניות בחו״ל עולות, גופים מוסדיים בארץ מוכרים דולרים לצורך <button class=\"term\" data-t=\"hedge\">גידור</button>. זה ההפך ממה שקרה בשבוע שעבר."],
+    ["למה הזהב עלה ביחד עם המניות?","בשבוע שעבר משקיעים מכרו זהב כדי להשיג מזומן. היום חלק מהם חזרו לקנות במחיר נמוך. גם המתיחות מול איראן תומכת בזהב."]
   ];
   const qa=([q,a])=>`<details><summary>${q}</summary><p>${a}</p></details>`;document.getElementById('faq').innerHTML=FAQ.slice(0,2).map(qa).join('');document.getElementById('faqMore').innerHTML=FAQ.slice(2).map(qa).join('');
-  const STOCK_NOTE="שינוי שבועי. הקו מראה את 5 ימי המסחר של השבוע.";
+  const STOCK_NOTE="אנבידיה: מחיר היום, נכון ל-18:00. שאר המניות: נעילת שישי (20.11) והשינוי באותו יום. מה קורה היום כתוב בהערה.";
 
   // ===== my stocks (choose up to 6, saved per device) =====
   const pills=document.getElementById('pills'),box=document.getElementById('stock'),chooser=document.getElementById('chooser'),opts=document.getElementById('opts'),find=document.getElementById('find'),editBtn=document.getElementById('editBtn');
